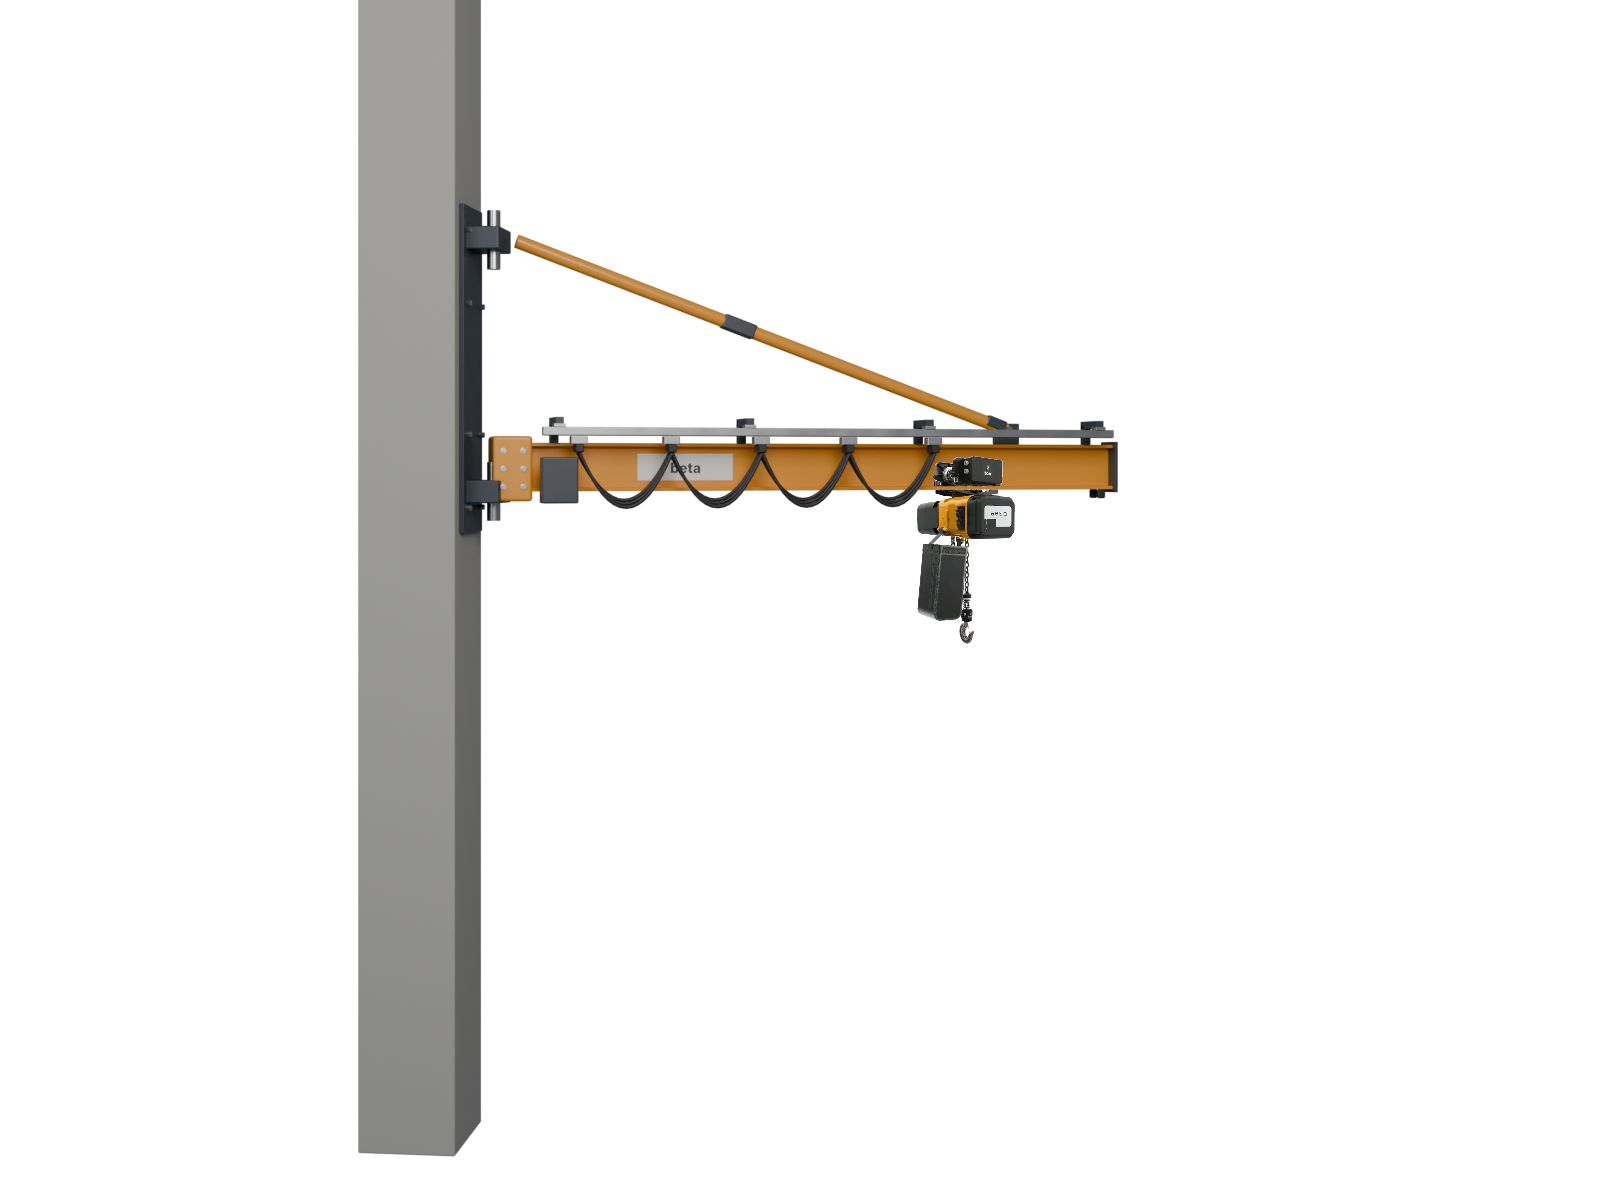
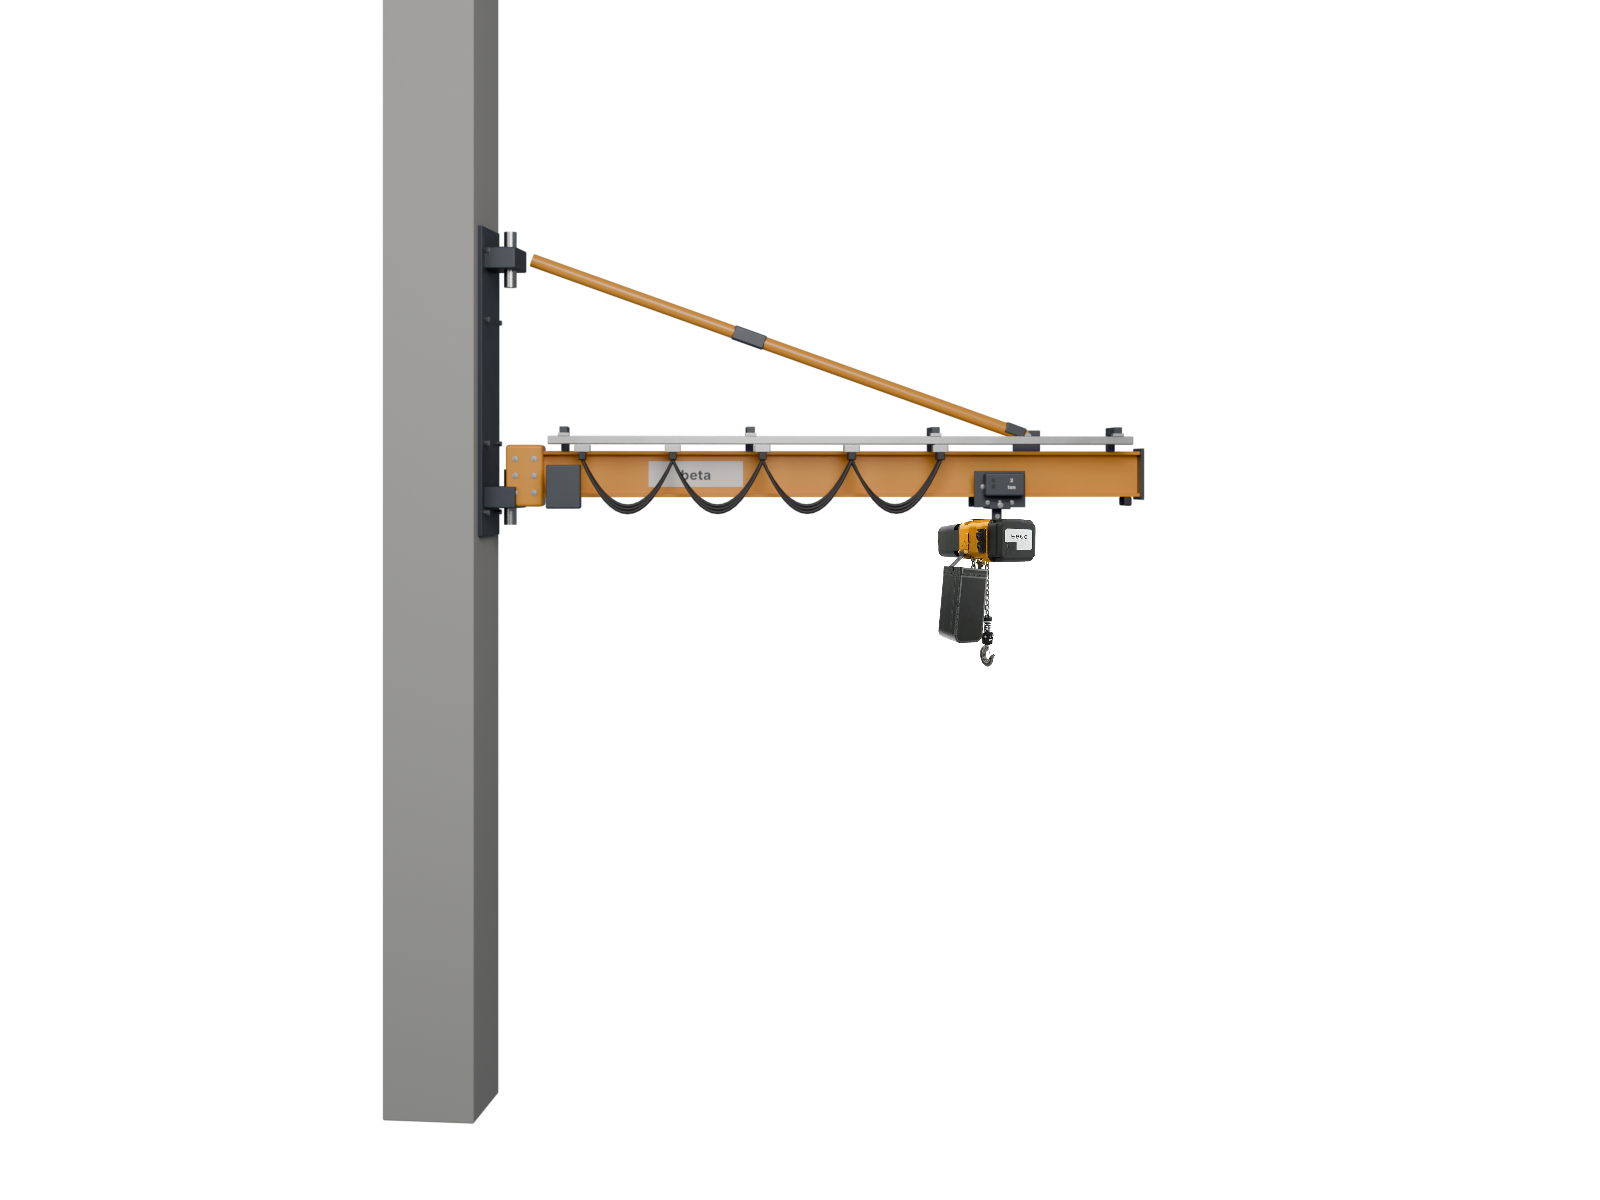
Duvar pergel: 3B monoray arabası alt flanşta, caraskal fotoğrafı askıda; açı 10°
Claude-Session: https://claude.ai/code/session_01BwJWWo6Yo4AefWjfCSnerb

Changed region(s): [[0.2188, 0.0, 0.7188, 0.9867]]

diff --git a/kaynak/render_vincler.py b/kaynak/render_vincler.py
@@ -722,7 +722,7 @@ def ortam(M, **kw):
 
 
 def foto_vinc(dosya, nesne, nokta, yukseklik, capa=0.5, dikey=0.0, arkasinda=(), halat=None,
-              eksen=None, genislik_carpani=1.0):
+              eksen=None, genislik_carpani=1.0, kirp_ust=0.0):
     """Gerçek ürün fotoğrafını sahnedeki bir düzleme perspektifli olarak yerleştir.
 
     Fotoğraf gerçek ölçüsünde (yükseklik m) bir düzleme oturtulur; dört köşesi kameraya
@@ -730,12 +730,15 @@ def foto_vinc(dosya, nesne, nokta, yukseklik, capa=0.5, dikey=0.0, arkasinda=(),
     perspektifini taşır; sahne kamerası fotoğrafın çekim açısına göre ayarlanır).
     eksen verilirse düzlem `nesne` yerel `eksen` (yatay) ve Z doğrultularındadır; fotoğraf aynı açıdan
     çekilmişse genislik_carpani=1/cos(açı) kendi kısalmasını telafi eder (perspektif iki kez uygulanmaz).
+    kirp_ust: fotoğrafın üstten bu oranı atılır (ör. arabası 3B modellenen caraskalda yalnız gövde kalır);
+    yukseklik kırpılmamış fotoğrafın yüksekliğidir.
     nokta: fotoğrafın yatayda `capa`, düşeyde `dikey` oranına (0 = üst kenar) denk gelen nokta,
     arkasinda: fotoğrafın önünde kalacak nesnelerin ad önekleri (ör. ön kiriş),
     halat: (ust_oran, alt_oran, kanca_z) - yalnız halat bandını uzatıp kancayı kanca_z'ye indirir.
     """
     FOTOLAR.append((os.path.join(FOTO_KLASOR, dosya), nesne, Vector(nokta), yukseklik, capa, dikey,
-                    tuple(arkasinda), halat, None if eksen is None else Vector(eksen).normalized(), genislik_carpani))
+                    tuple(arkasinda), halat, None if eksen is None else Vector(eksen).normalized(), genislik_carpani,
+                    kirp_ust))
 
 
 def _homografi(hedef, kaynak):
@@ -788,8 +791,11 @@ def fotolari_ekle(cikti):
         return (q.x * W, (1 - q.y) * H)
 
     yerlesim = []
-    for dosya, nesne, nokta, yuk, capa, dikey, arkasinda, halat, eksen, gcarp in FOTOLAR:
+    for dosya, nesne, nokta, yuk, capa, dikey, arkasinda, halat, eksen, gcarp, kirp in FOTOLAR:
         foto = Image.open(dosya).convert("RGBA")
+        if kirp:
+            foto = foto.crop((0, round(kirp * foto.height), foto.width, foto.height))
+            yuk *= 1 - kirp
         fw, fh = foto.size
         gen = yuk * fw / fh * gcarp
         if halat:
@@ -941,6 +947,40 @@ def foto_kamera(g, nokta, sapma, yukseklik, uzaklik, hedef, lens):
     kamera(tuple(cam), (hedef.x, hedef.y, hedef.z), lens=lens, kaydir=True)
 
 
+def monoray_araba(name, x, z_alt, b, tf, M, g):
+    """Bomun alt flanşında yürüyen elektrikli caraskal arabası (Beta 2 ton arabasına benzer).
+
+    z_alt: bom alt yüzü, b: flanş genişliği, tf: flanş kalınlığı. Askı kulağının alt kotunu döndürür.
+    """
+    zf = z_alt + tf  # flanş üst yüzü = tekerlek basma kotu
+    r = 0.045
+    yp = b / 2 + 0.035  # yan levhalar flanşın dışında
+    for sy in (-1, 1):
+        kutu(f"{name}_levha{sy}", (0.34, 0.016, 0.24), (x, sy * yp, zf + 0.03), M["antrasit"], g, bevel=0.004)
+        for sx in (-1, 1):
+            # tekerlek flanş üstünde, web ile yan levha arasında
+            silindir(f"{name}_tek{sy}{sx}", r, 0.032, (x + sx * 0.11, sy * (b / 4 + 0.012), zf + r), M["celik"], g, axis="Y", bevel=0.003)
+            silindir(f"{name}_tekflans{sy}{sx}", r + 0.008, 0.006, (x + sx * 0.11, sy * (b / 2 - 0.004), zf + r), M["celik"], g, axis="Y")
+            silindir(f"{name}_aks{sy}{sx}", 0.012, 0.06, (x + sx * 0.11, sy * (yp - 0.02), zf + r), M["celik"], g, axis="Y")
+            civata(f"{name}_akssomun{sy}{sx}", (x + sx * 0.11, sy * (yp + 0.008), zf + r), "Y" if sy > 0 else "-Y", M, g, r=0.012)
+        civata_izgara(f"{name}_levhac{sy}", (x, sy * (yp + 0.008), zf - 0.06), (1, 0, 0), (0, 0, 1), 3, 1, 0.08, 0.0,
+                      "Y" if sy > 0 else "-Y", M, g, r=0.010)
+    # alt travers (iki levhayı flanşın altından bağlar) + askı kulağı
+    kutu(f"{name}_travers", (0.14, 2 * yp + 0.04, 0.05), (x, 0, z_alt - 0.055), M["antrasit"], g, bevel=0.006)
+    for sy in (-1, 1):
+        civata(f"{name}_traversc{sy}", (x, sy * (yp + 0.028), z_alt - 0.055), "Y" if sy > 0 else "-Y", M, g, r=0.013)
+    kutu(f"{name}_kulak", (0.06, 0.03, 0.09), (x, 0, z_alt - 0.12), M["antrasit"], g, bevel=0.004)
+    silindir(f"{name}_askipim", 0.016, 0.07, (x, 0, z_alt - 0.13), M["celik"], g, axis="Y")
+    # ön levhada "2 ton" kutusu, arka levhada yürütme motoru
+    kutu(f"{name}_kutu", (0.26, 0.10, 0.15), (x + 0.02, -(yp + 0.06), zf + 0.06), M["antrasit"], g, bevel=0.012)
+    yazi(f"{name}_kapasite", "2\nton", (x + 0.06, -(yp + 0.111), zf + 0.065), 0.045, M["beyaz"], g)
+    for k, dz in enumerate((0.03, -0.01)):
+        silindir(f"{name}_tapa{k}", 0.012, 0.01, (x - 0.06, -(yp + 0.112), zf + 0.06 + dz), M["siyah"], g, axis="Y")
+    kutu(f"{name}_red", (0.12, 0.10, 0.12), (x - 0.12, yp + 0.06, zf + 0.04), M["antrasit"], g, bevel=0.01)
+    silindir(f"{name}_motor", 0.05, 0.14, (x - 0.12, yp + 0.13, zf + 0.04), M["antrasit"], g, axis="Y", bevel=0.005)
+    return z_alt - 0.15
+
+
 def bom_logo(M, g, x, zb):
     """Bom gövdesine beyaz zemin üzerine 'beta' plakası."""
     kutu("bom_logozemin", (0.62, 0.004, 0.17), (x, -0.008, zb - 0.15), M["beyaz"], g, bevel=0.0015)
@@ -953,7 +993,7 @@ def sahne_duvar_pergel(M):
     beton = boya("beton_kolon", (0.36, 0.36, 0.345, 1), rough=0.85, var=0.1, bump=0.4)
     kutu("bina_kolon", (0.6, 0.6, 12.0), (-0.3, 0, 6.0), beton, bevel=0.01)
     # dönen grup (mafsal ekseni x=0.12)
-    SAPMA, YUKSEKLIK = 22, 0  # zincirli vinç fotoğrafının çekim açısı (soldan, yukarıdan; derece)
+    SAPMA, YUKSEKLIK = 10, 0  # zincirli vinç fotoğrafının çekim açısı (soldan, yukarıdan; derece)
     g = bos("pergel", (0.12, 0, 0), (0, 0, math.radians(SAPMA if YAN else 18)))
     # duvar konsolu (sabit)
     # üstten gergili: alt mafsal bom kökünde, üst mafsal bomun 1,3 m üstünde (alt flanş caraskal için serbest)
@@ -983,9 +1023,10 @@ def sahne_duvar_pergel(M):
     civata_izgara("bom_kok_c", (0.14, -0.132, zb - 0.16), (1, 0, 0), (0, 0, 1), 2, 3, 0.12, 0.11, "-Y", M, g, r=0.013)
     festoon("festoon", 0.3, 4.1, -0.27, zb + 0.07, 0.4, 3.25 - 0.42, M, g, n=5, L=1.1,
             y_konsol=-0.07, z_konsol=zb, aralik=1.2)
-    # caraskal bomun alt flanşında (ray) yürür: flanş arabanın içinden geçer, tekerlekler üstüne basar
-    foto_vinc("zincirli_vinc_2ton.png", g, (3.25, 0, zb - 0.282), 1.25, capa=0.62, dikey=0.165,
-              arkasinda=("festoon", "bom_alt"), eksen=(1, 0, 0),
+    # caraskal arabası 3B: tekerlekler bomun alt flanşında (ray); caraskal gövdesi ürün fotoğrafı, askıya asılı
+    z_askı = monoray_araba("araba", 3.25, zb - 0.30, 0.15, 0.022, M, g)
+    foto_vinc("zincirli_vinc_2ton.png", g, (3.25, 0, z_askı), 1.25, capa=0.60, dikey=0.0,
+              arkasinda=("festoon",), eksen=(1, 0, 0), kirp_ust=0.215,
               genislik_carpani=1 / math.cos(math.radians(SAPMA)))  # bomla aynı perspektif
     if not BEYAZ:
         palet(M, (4.6, 0.1, 0), 0.35)
